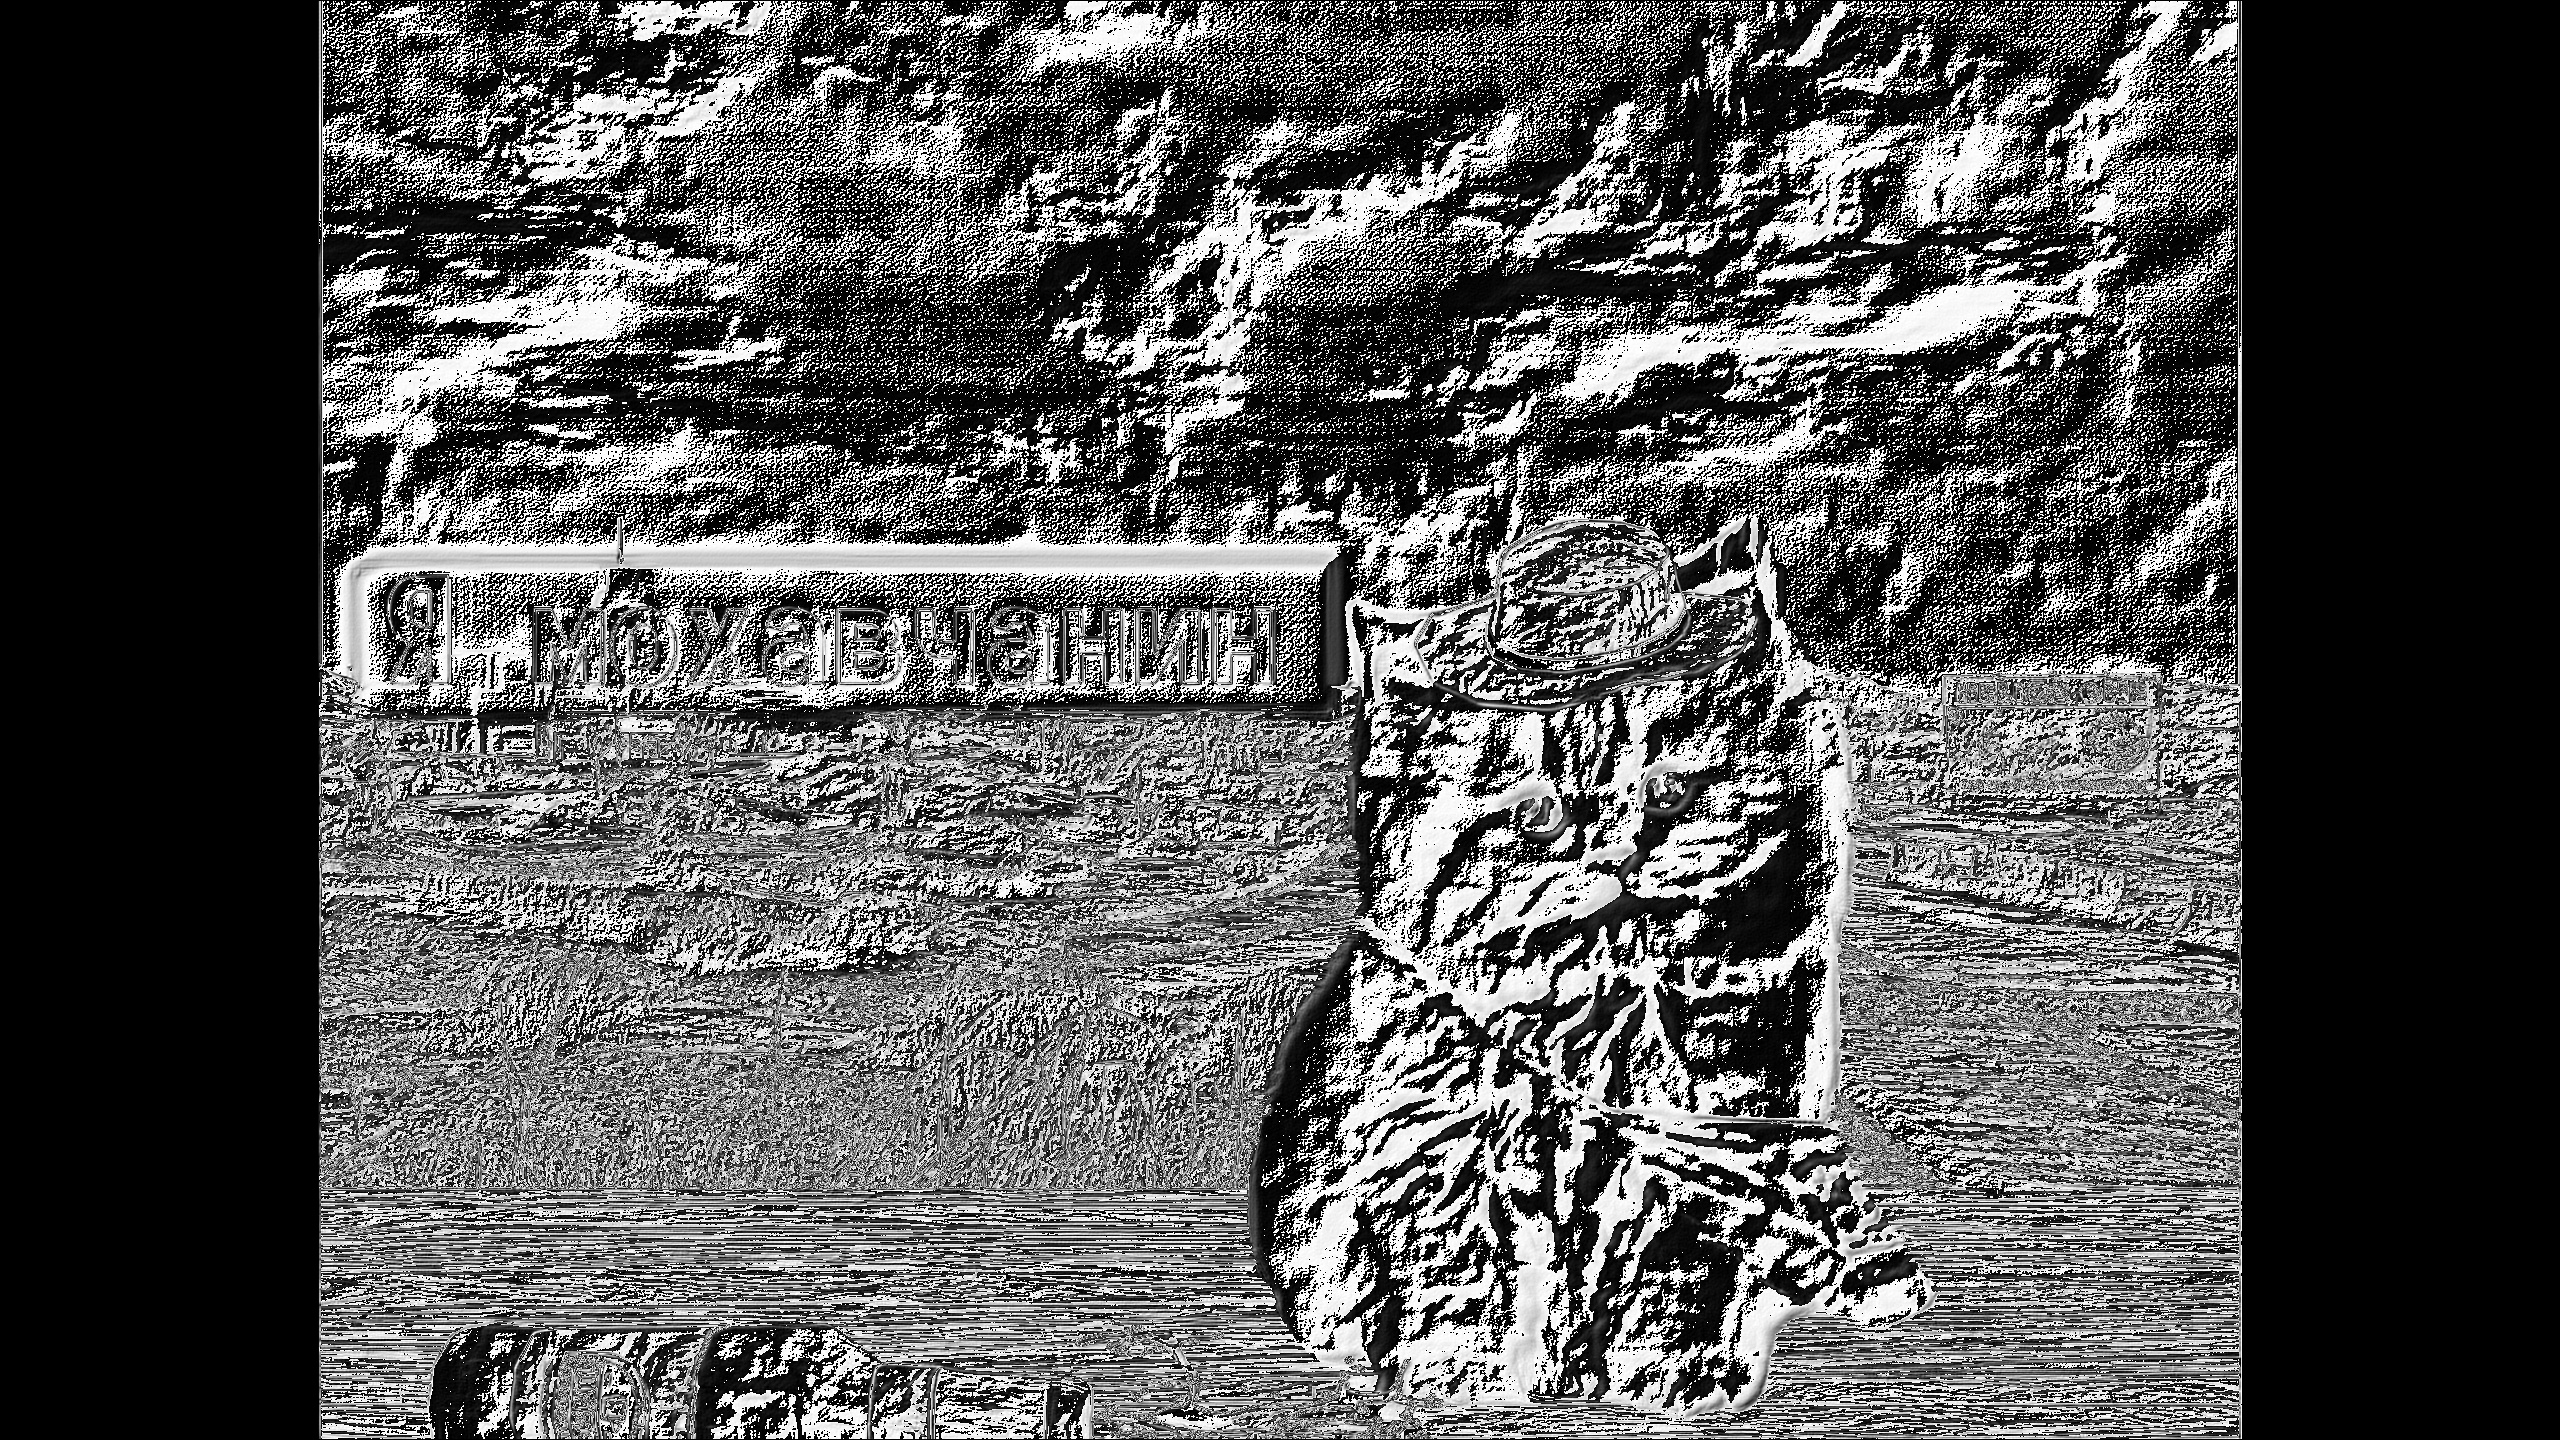
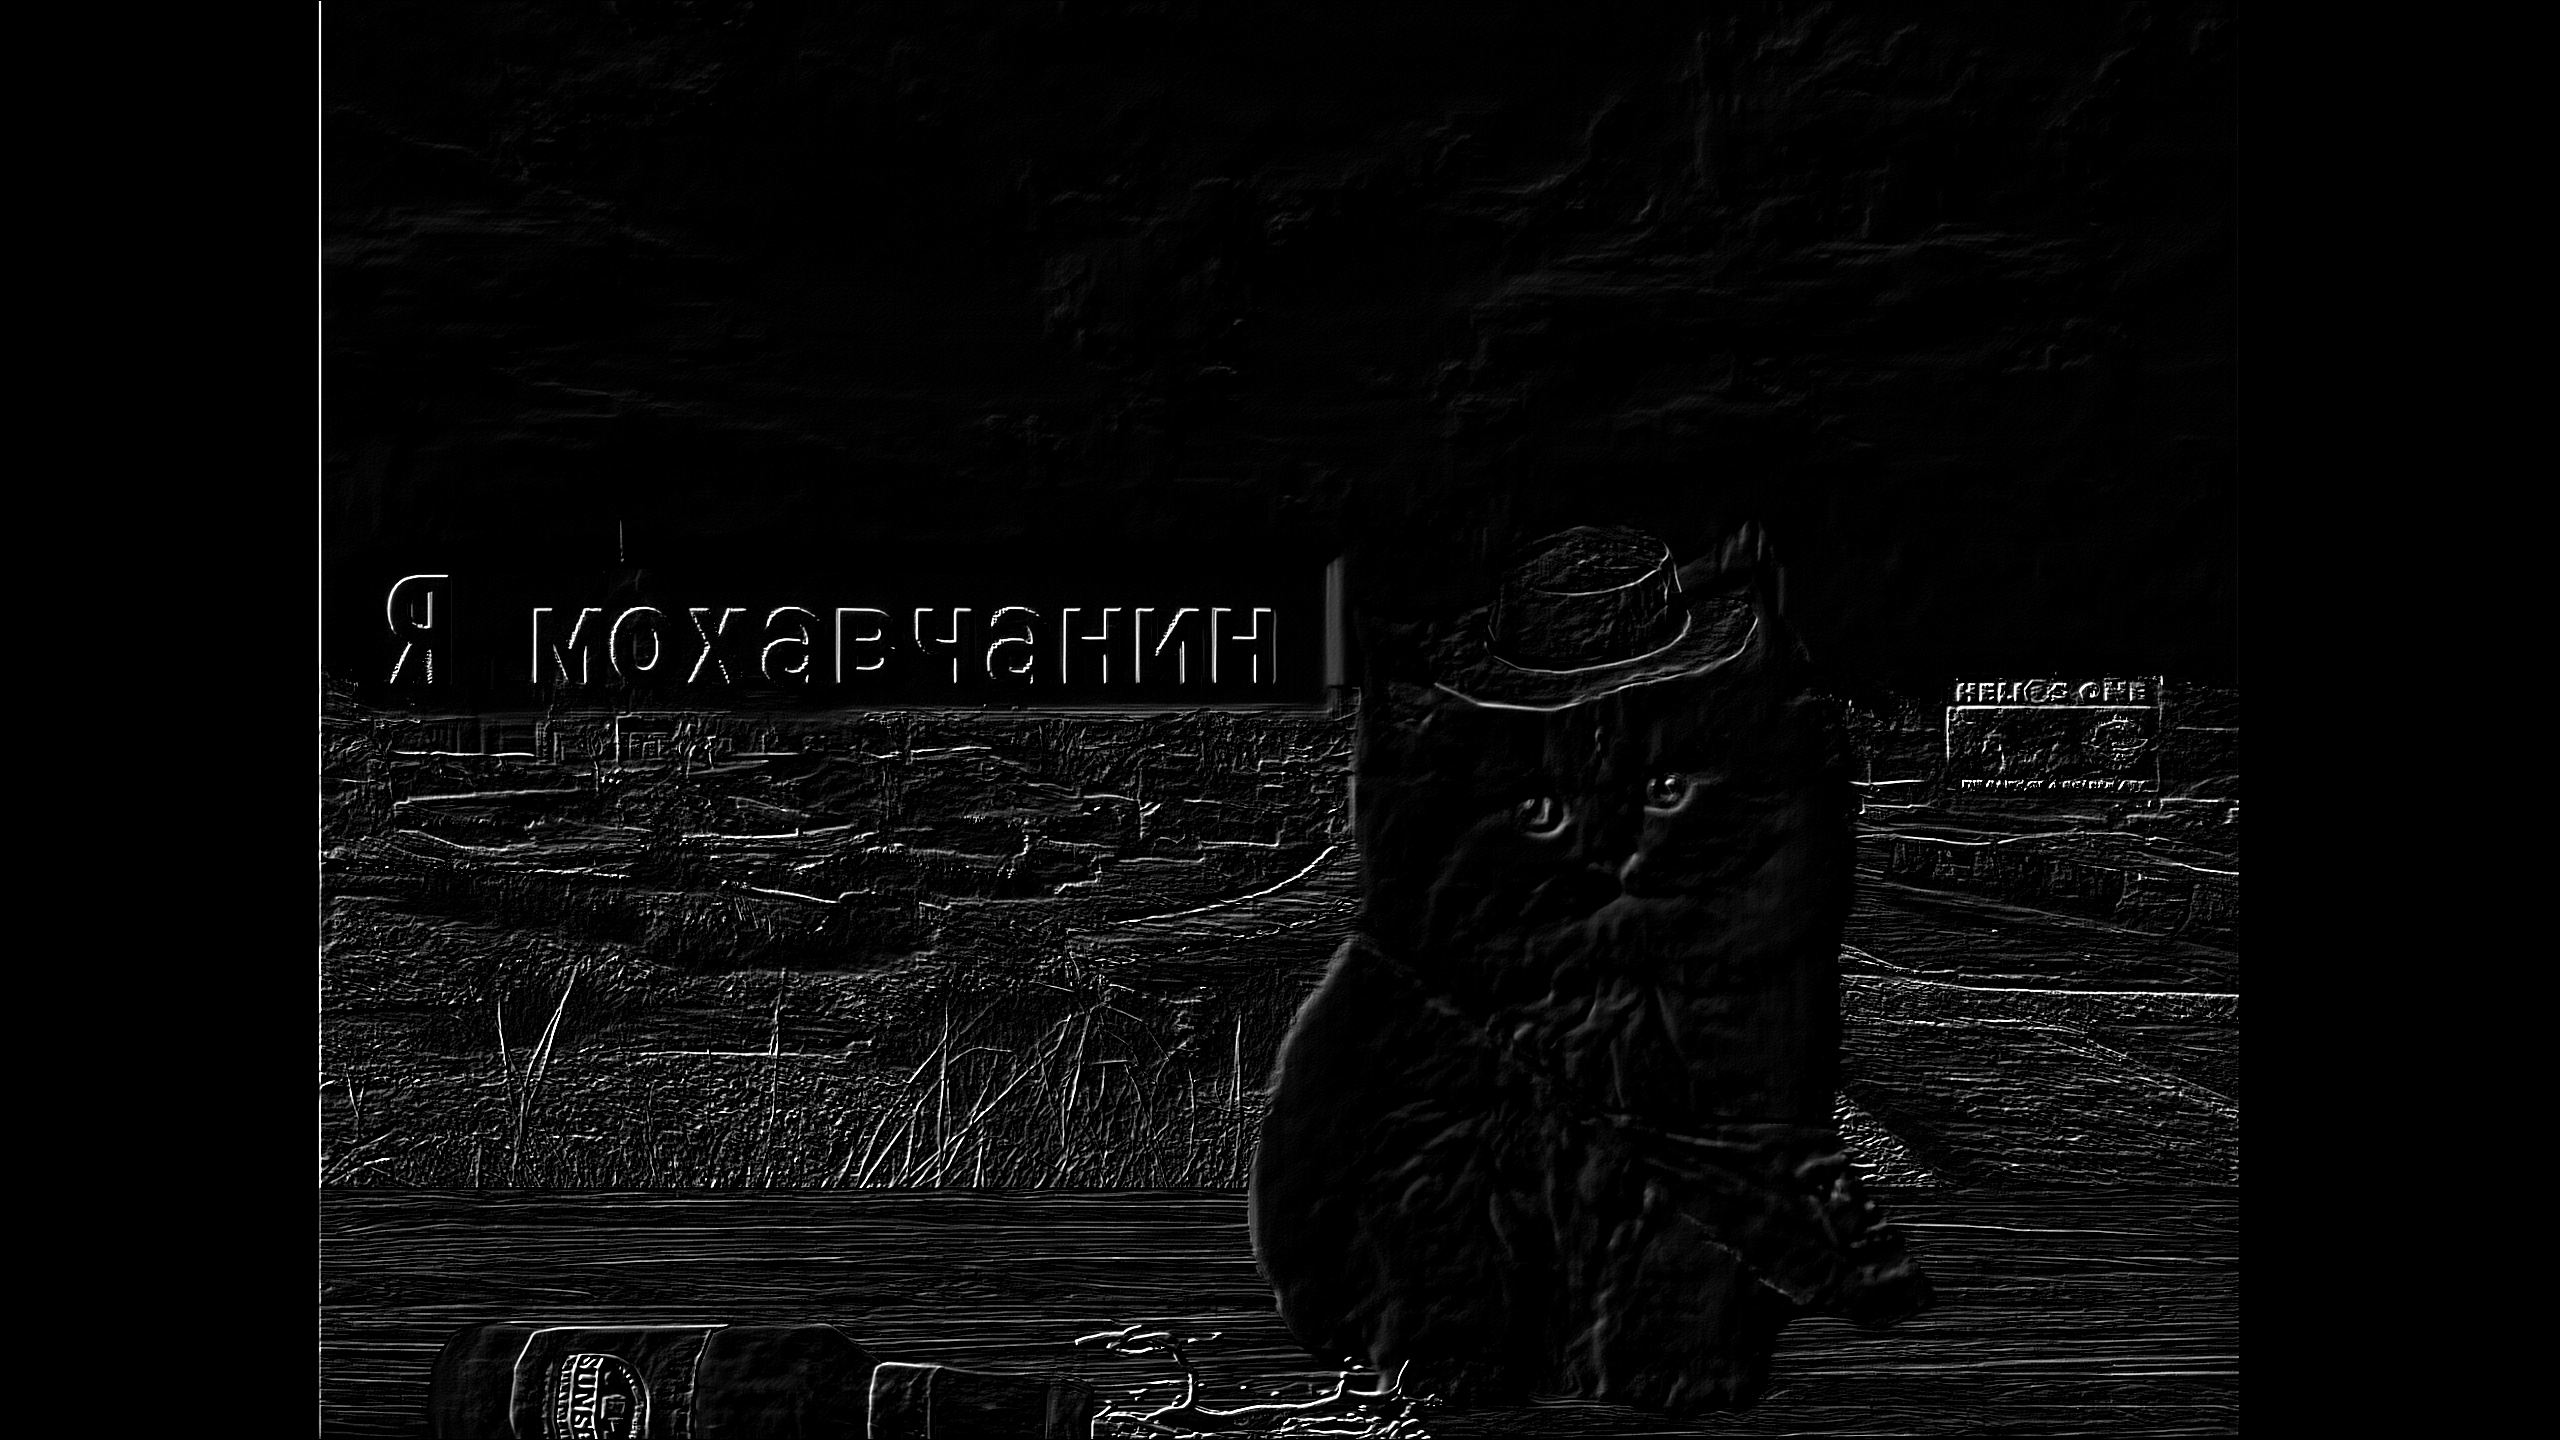
Fixed pixel overflow

diff --git a/lab1/include/aperture_correction_filter.h b/lab1/include/aperture_correction_filter.h
@@ -10,6 +10,8 @@ void aperture_correction(const cv::Mat &input_img, cv::Mat &output_img, int aper
     std::vector<std::vector<float>> Fk;
 
     int frameWidth = aperture_size/2;
+    
+    std::cout << "\n\n" << frameWidth << "\n\n";
 
     int index = ceil((100.0/percentage - 1) + 8);
 
@@ -67,7 +69,7 @@ void aperture_correction(const cv::Mat &input_img, cv::Mat &output_img, int aper
                     uchar blurred = input_img.at<uchar>(j + jj, i + ii);
                     Rez += Fk[ii + frameWidth][jj + frameWidth] * blurred;
                 }
-            uchar blurred = Rez / k; // осуществляем нормировку
+            uchar blurred = ((Rez / k) > 255) ? 255 : (((Rez / k) < 0) ? 0 : (Rez / k)); // осуществляем нормировку
             output_img.at<uchar>(j, i) = blurred;
         }
         if (( ( i + 1 ) % ( (input_img.cols - frameWidth) / 10 ) ) == 0)

diff --git a/lab1/include/gauss_filter.h b/lab1/include/gauss_filter.h
@@ -53,6 +53,8 @@ void gauss(const cv::Mat &input_img, cv::Mat &output_img, int aperture_size = 3)
         std::cout << std::endl;
     }
 
+    std::cout << "\nNorm koeff: " << k << "\n";
+
 
     for (int i = frameWidth; i < input_img.cols - frameWidth; i++)
     {
@@ -67,7 +69,7 @@ void gauss(const cv::Mat &input_img, cv::Mat &output_img, int aperture_size = 3)
                     uchar blurred = input_img.at<uchar>(j + jj, i + ii);
                     Rez += Fk[ii + frameWidth][jj + frameWidth] * blurred;
                 }
-            uchar blurred = Rez / k; // осуществляем нормировку
+            uchar blurred = ((Rez / k) > 255) ? 255 : (((Rez / k) < 0) ? 0 : (Rez / k)); // осуществляем нормировку
             output_img.at<uchar>(j, i) = blurred;
         }
         if (( ( i + 1 ) % ( (input_img.cols - frameWidth) / 10 ) ) == 0)

diff --git a/lab1_5/include/base_outline.h b/lab1_5/include/base_outline.h
@@ -31,7 +31,7 @@ void base_outline(const cv::Mat &input_img, cv::Mat &output_img, std::vector<std
                     uchar blurred = input_img.at<uchar>(j + jj, i + ii);
                     Rez += Fk[ii + frameWidth][jj + frameWidth] * blurred;
                 }
-            output_img.at<uchar>(j, i) = Rez;
+            output_img.at<uchar>(j, i) = (Rez > 255) ? 255 : ((Rez < 0) ? 0 : Rez);
         }
         if (( ( i + 1 ) % ( (input_img.cols - frameWidth) / 10 ) ) == 0)
             progressbar(input_img.cols - frameWidth, i);

diff --git a/lab1/main.cpp b/lab1/main.cpp
@@ -17,13 +17,14 @@ int main(int argc, char** argv) {
     int mosaic_aperture_size = 3;
     int aper_correction_aperture_size = 3;
     int median_aperture_size = 3;
-    float aper_correction_percentage = 8;
+    float aper_correction_percentage = 20;
 
     std::cout << "Input filter id for showing only one pic (1-4, 0 for skip): ";
     int filterId = 1;
     std::cin >> filterId;
 
     cv::Mat image = cv::imread(filename, cv::IMREAD_GRAYSCALE);
+    cv::imwrite("input_cpp.jpg", image);
 
     switch (filterId)
     {

diff --git a/lab1_5/include/sobel_outline.h b/lab1_5/include/sobel_outline.h
@@ -71,7 +71,7 @@ void sobel_general(const cv::Mat &input_img, cv::Mat &output_img)
                 (input_img.at<uchar>(j-1, i+1) + 2*input_img.at<uchar>(j, i+1) + input_img.at<uchar>(j+1, i+1)));
             
             
-            output_img.at<uchar>(j, i) = Rez;
+            output_img.at<uchar>(j, i) = (Rez > 255) ? 255 : ((Rez < 0) ? 0 : Rez);
         }
         if (( ( i + 1 ) % ( (input_img.cols - frameWidth) / 10 ) ) == 0)
             progressbar(input_img.cols - frameWidth, i);

diff --git a/lab1_5/main.cpp b/lab1_5/main.cpp
@@ -104,7 +104,7 @@ int main(int argc, char** argv) {
         system(create_folder.c_str());
         output_folder += "/";
 
-        cv::imwrite(output_folder + "gauss_diff.jpg", gauss_diff);
+        cv::imwrite(output_folder + "gauss_diff.jpg", gauss_diff*7);
 
         cv::imwrite(output_folder + "canny_img.jpg", canny_img);
         
